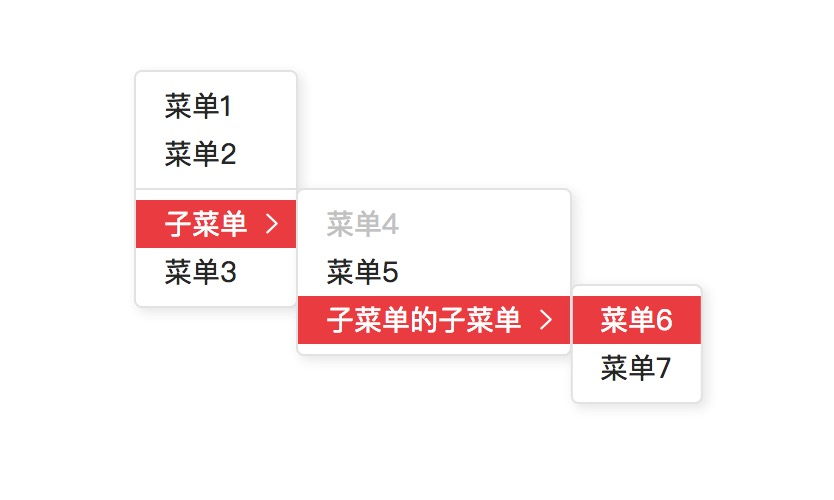
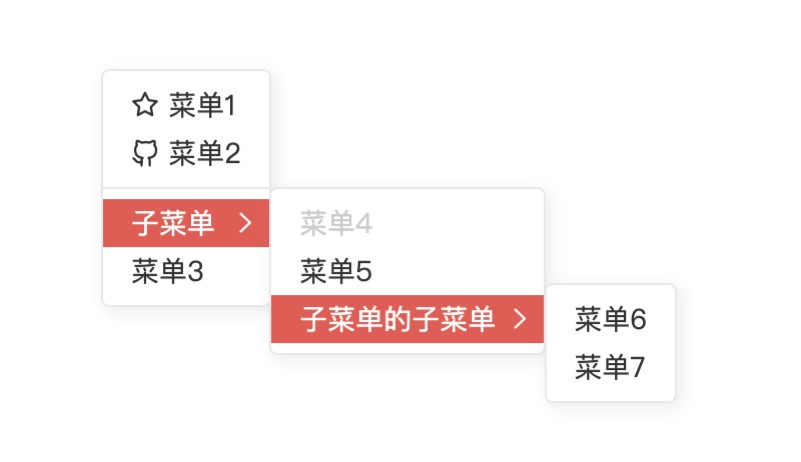
docs: 文档中添加暗色主题

Changed region(s): [[0.1248, 0.3939, 0.8427, 0.8182], [0.1561, 0.1818, 0.3121, 0.3636]]

diff --git a/examples/CustomTrigger.vue b/examples/CustomTrigger.vue
@@ -1,8 +1,12 @@
 <template>
   <div class="example">
     <v-contextmenu ref="contextmenu" event-type="click" :theme="theme">
-      <v-contextmenu-item @click="handleClick">菜单1</v-contextmenu-item>
-      <v-contextmenu-item @click="handleClick">菜单2</v-contextmenu-item>
+      <v-contextmenu-item @click="handleClick">
+        <span class="iconfont icon-star"></span> 菜单1
+      </v-contextmenu-item>
+      <v-contextmenu-item @click="handleClick">
+        <span class="iconfont icon-github"></span> 菜单2
+      </v-contextmenu-item>
 
       <v-contextmenu-item divider></v-contextmenu-item>
 

diff --git a/docs/usage-en.md b/docs/usage-en.md
@@ -38,7 +38,7 @@ Base Contextmenu Component
 | Attribute  | Description   | Type   | Options    | Default       |
 | ---------- | ------------- | ------ | ---------- | ------------- |
 | eventType  | event to bind | String | any events | contextmenu   |
-| theme      | theme         | String | default / bright | default |
+| theme      | theme         | String | default / bright / dark | default |
 | disabled   | disable the Menu (will not appear)  | Boolean | true / false | false |
 | autoPlacement  | whether change placement automatically when the Menu is outside of Window | Boolean | true / false | true |
 
@@ -116,7 +116,7 @@ Component for menu group, `VContextmenuItem` can be nested
 
 ## Themes
 
-There are two themes as follows:
+There are three themes as follows:
 
 **Default**
 
@@ -126,11 +126,16 @@ There are two themes as follows:
 
 ![bright](./images/bright.jpg)
 
+**Dark**
+
+![dark](./images/dark.jpg)
+
 Furthermore, you can cover the default styles using following `classnames`
 
 - `v-contextmenu`: Root element
 - `v-contextmenu--default`: Root element - default theme
 - `v-contextmenu--bright`: Root element - bright theme
+- `v-contextmenu--dark`: Root element - dark theme
 - `v-contextmenu-item`: Menu item
 - `v-contextmenu-item--hover`: Menu item when hover
 - `v-contextmenu-item--disabled`: Menu item when disabled

diff --git a/docs/usage.md b/docs/usage.md
@@ -38,7 +38,7 @@
 | 参数        | 说明              | 类型    | 可选值 | 默认值      |
 | ---------- | ----------------- | ------ | ----- | ---------- |
 | eventType  | 触发其显示的事件类型 | String | 事件名 | contextmenu |
-| theme      | 主题              | String | default / bright | default |
+| theme      | 主题              | String | default / bright / dark | default |
 | disabled   | 是否禁用菜单（菜单不会出现）  | Boolean | true / false | false |
 | autoPlacement  | 是否自动切换方位，即当菜单显示时溢出浏览器窗口可视区域，自动切换显示方位 | Boolean | true / false | true |
 
@@ -116,7 +116,7 @@
 
 ## 主题
 
-提供两种主题
+提供三种主题
 
 **默认**
 
@@ -126,11 +126,16 @@
 
 ![bright](./images/bright.jpg)
 
+**暗色**
+
+![dark](./images/dark.jpg)
+
 另外可自行根据 `classnames` 进行样式覆盖
 
 - `v-contextmenu`: 根元素
 - `v-contextmenu--default`: 根元素-默认主题
 - `v-contextmenu--bright`: 根元素-亮色主题
+- `v-contextmenu--dark`: 根元素-暗色主题
 - `v-contextmenu-item`: 单个菜单
 - `v-contextmenu-item--hover`: 单个菜单激活状态
 - `v-contextmenu-item--disabled`: 单个菜单禁用状态

diff --git a/README_en.md b/README_en.md
@@ -72,7 +72,7 @@ See [usage](./docs/usage-en.md) & [examples](./examples) for more details.
 
 ## Theme
 
-There are two themes，see [VContextmenu](./docs/usage-en.md#vcontextmenu) for more details.
+There are three themes，see [VContextmenu](./docs/usage-en.md#vcontextmenu) for more details.
 
 **Default**
 
@@ -81,6 +81,10 @@ There are two themes，see [VContextmenu](./docs/usage-en.md#vcontextmenu) for m
 **Bright**
 
 ![bright](./docs/images/bright.jpg)
+
+**Dark**
+
+![dark](./docs/images/dark.jpg)
 
 ## Develop
 

diff --git a/README.md b/README.md
@@ -72,7 +72,7 @@ Vue.use(contentmenu)
 
 ## 主题
 
-提供两种主题，使用方法见 [VContextmenu](./docs/usage.md#vcontextmenu)
+提供三种主题，使用方法见 [VContextmenu](./docs/usage.md#vcontextmenu)
 
 **默认**
 
@@ -81,6 +81,10 @@ Vue.use(contentmenu)
 **亮色**
 
 ![bright](./docs/images/bright.jpg)
+
+**暗色**
+
+![dark](./docs/images/dark.jpg)
 
 ## 开发
 
